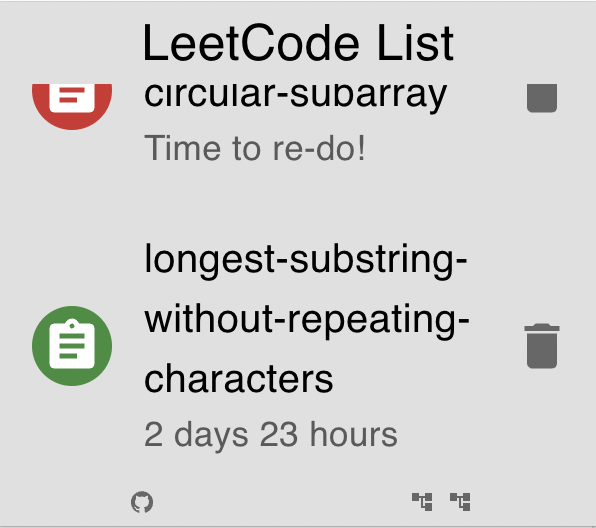
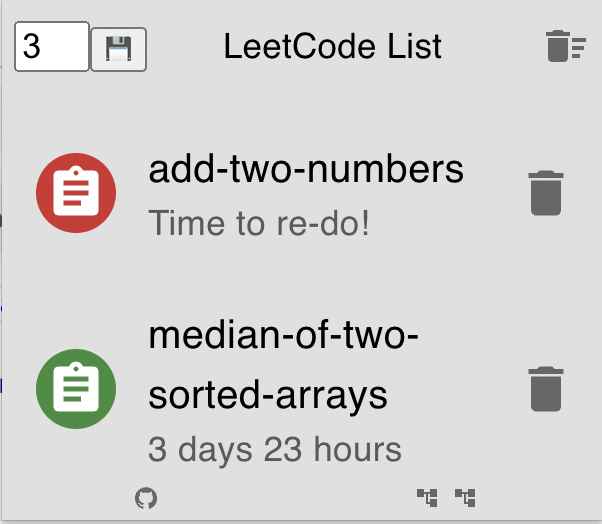
Update screenshots

diff --git a/README.md b/README.md
@@ -21,7 +21,7 @@ Install the extension from [here](https://chrome.google.com/webstore/detail/leet
 This Chrome Extension currently supports:
 
 - **Save the re-do LeetCode questions**
-![wrong_answers.png](/screenshots/wrong_anwser_button_update.png?raw=true)
+![wrong_answers.png](/screenshots/redo_button.png?raw=true)
 - **Show the list of LeetCode questions by extension popup**
 ![popup.png](/screenshots/popup.png?raw=true)
 
